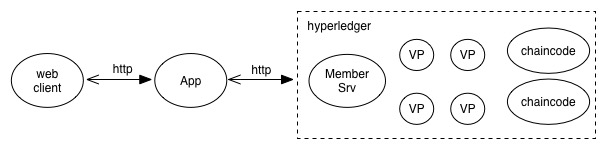
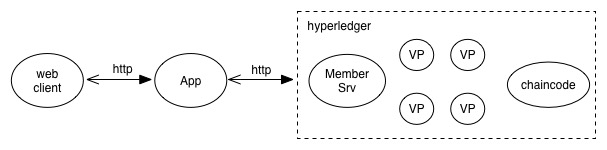
修改

Changed region(s): [[0.8303, 0.2133, 0.9786, 0.8], [0.86, 0.16, 0.9786, 0.2933], [0.86, 0.8, 0.9489, 0.8533]]

diff --git a/markdowns/designs.md b/markdowns/designs.md
@@ -39,10 +39,22 @@ Hyperledger：基金管理系统底层区块链技术实现，提供memberSrv服
 7. 用户基金信息：账户证书、基金序号、所购基金份额
 8. 排队信息：交易者证书、基金序号、交易额（认购或赎回）、申请时间
 
+以上数据结构对应的数据都通过chaincode操作并保存在block的worldstate里。另外，系统账户的注册由Hyperledger的membersrv服务实现。
+
 ####系统流程
 
-![交易流程](../img/交易流程.jpg)
+如下图流程图内所展示的逻辑是在chaincode实现。
 
+![流程](../img/流程.jpg)
 
+###APP接口设计
 
+App模块为web client提供REST API。
 
+#### 账户注册API
+
+#### 基金设置API
+
+#### 基金交易API
+
+#### 历史数据API
